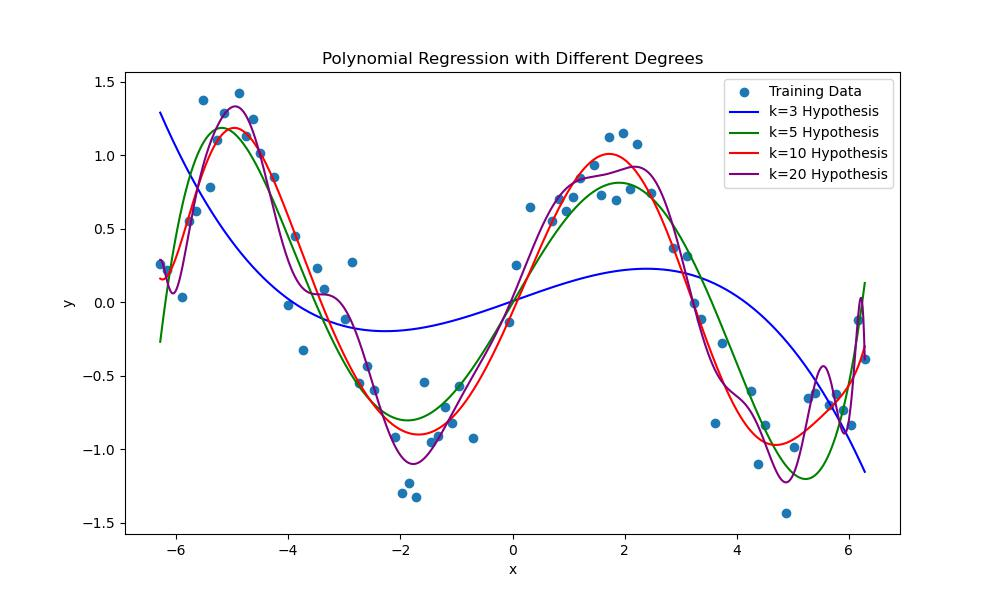
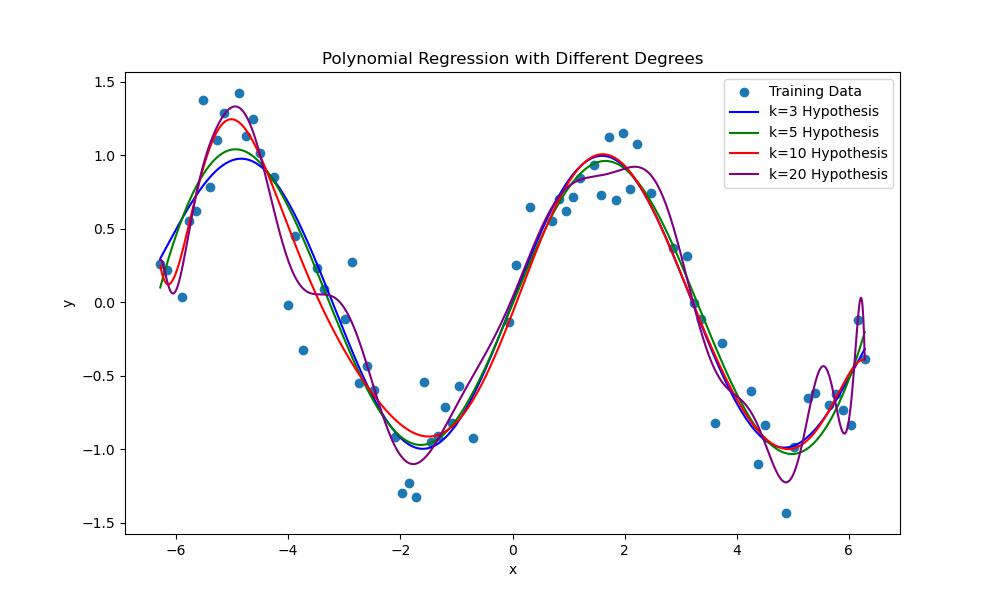
done with the Qn4

diff --git a/ps1/src/featuremaps/featuremap.py b/ps1/src/featuremaps/featuremap.py
@@ -19,6 +19,7 @@ class LinearModel(object):
         self.theta = theta
         self.degree_of_poly = 1
         self.enable_logs = enable_logs
+        self.do_we_need_sin_in_phi = False
 
     def fit(self, X, Y, degree_of_polynomial=5, do_we_need_sin_in_phi:bool = False):
         """Run solver to fit linear model. You have to update the value of
@@ -53,15 +54,17 @@ class LinearModel(object):
         #
         X = self.create_poly_feature_map(degree_of_polynomial, X, do_we_need_sin_in_phi)
         print(F" created poly_feature_map X and it's shape is {X.shape} ")
-        theta = self.calculate_theta_with_normal_eqn(degree_of_polynomial, X, Y)
+        theta = self.calculate_theta_with_normal_eqn(degree_of_polynomial, X, Y, do_we_need_sin_in_phi)
         self.theta = theta
         print(F" the shape of theta after the fitting is {theta.shape} and X's shape is {X.shape} ")
         self.degree_of_poly = degree_of_polynomial
+        self.do_we_need_sin_in_phi = do_we_need_sin_in_phi
         # *** END CODE HERE ***
 
-    def calculate_theta_with_normal_eqn(self, degree_of_polynomial:int, X:np.ndarray, Y:np.ndarray, )->np.ndarray:
-        theta = np.zeros((degree_of_polynomial + 1,1))
-        print(F" the theta vec obtained is {theta}  and it's shape is {theta.shape}")
+    def calculate_theta_with_normal_eqn(self, degree_of_polynomial:int, X:np.ndarray, Y:np.ndarray, do_we_need_sin_in_phi:bool = False)->np.ndarray:
+        rows_in_theta = degree_of_polynomial + 2 if  do_we_need_sin_in_phi else degree_of_polynomial + 1
+        theta = np.zeros((rows_in_theta,1))
+        print(F" the theta vec obtained is {theta}  and it's shape is {theta.shape} and rows in theta is {rows_in_theta} and do_we_need_sin_in_phi:{do_we_need_sin_in_phi} and degree_of_polynomial is {degree_of_polynomial}")
         assert theta.shape[0] == X.shape[1], F" theta's row should be equal to the column of the X matrix, theta:{theta.shape}, X:{X.shape}"
         assert Y.shape[0] == X.shape[0] , F" the number of rows in the y should be same as the number of rows in the x(same as no. of eg.). X:{X.shape}, y:{Y.shape} "
         XT_X = np.dot(np.transpose(X), X)
@@ -90,11 +93,12 @@ class LinearModel(object):
         """
         # *** START CODE HERE ***
         number_0f_eg = input.shape[0]
-        dim_of_features = k+1
+        dim_of_features = k+1 if not do_we_need_sin_in_phi else k + 2
         print(F"the number_0f_eg is {number_0f_eg}, and dim_of_features {dim_of_features}")
         #final X matrix
         X = np.zeros(( number_0f_eg, dim_of_features))
         for i in range(number_0f_eg):
+            # print(F"at {i}: the x[{i}] is {X[i]} and it's shape {X[i].shape}")
             X[i] = self.phi(input[i], k, do_we_need_sin_in_phi)
             # print(F"\n\n"+"-"*40+F"{i}"+"-"*40+"\n\n")
             # print(F"{X[i]}")
@@ -152,7 +156,7 @@ class LinearModel(object):
             raise ValueError("the self.degree_of_poly is not of int type")
  
         print(F"-- in pred -- the shape of theta is {self.theta.shape} (it should be ({self.degree_of_poly+1},1)  )   and shape of X is {X.shape} ")
-        X_poly = self.create_poly_feature_map(self.degree_of_poly, X)
+        X_poly = self.create_poly_feature_map(self.degree_of_poly, X, do_we_need_sin_in_phi=self.do_we_need_sin_in_phi)
         res = np.dot( X_poly, self.theta )
         # res = np.dot( self.theta, X)
         print(F" the output from predict function has a shape {res.shape} \n\n")
@@ -195,7 +199,7 @@ def main(train_path, small_path, eval_path, degree_of_poly = 3):
     print(F" saved the files as:linear_reg_with_feature_map_with_poly_degree_{degree_of_poly}.jpg")
     # *** END CODE HERE ***
 
-def compare_diff_degree_poly( train_path:str, k_value , color, do_we_need_sin_in_phi:bool = False  ):
+def compare_diff_degree_poly( train_path:str, k_value , color, do_we_need_sin_in_phi:bool = False, extra_namePfor_saved_file = None  ):
     if len(k_value) != len(color):
         raise ValueError(F" the len of k value is not same as the no. of color , k_val:{len(k_value)}, color:{len(color)} ")
     
@@ -205,6 +209,7 @@ def compare_diff_degree_poly( train_path:str, k_value , color, do_we_need_sin_in
     plt.scatter(train_x, train_y, label='Training Data', )
 
     x_range = np.linspace(min(train_x), max(train_x), 1000).reshape(-1, 1)
+    saved_img_name = ""
 
     for k, color in zip(k_value, color):
         clf = LinearModel()
@@ -212,17 +217,23 @@ def compare_diff_degree_poly( train_path:str, k_value , color, do_we_need_sin_in
         clf.fit(train_x, train_y, degree_of_polynomial=k, do_we_need_sin_in_phi= do_we_need_sin_in_phi)
         y_pred = clf.predict(x_range)
         plt.plot(x_range, y_pred, color=color, label=f'k={k} Hypothesis')
+        saved_img_name+= "-"+str(k)
+
+    saved_img_name += str(extra_namePfor_saved_file)
 
     plt.xlabel('x')
     plt.ylabel('y')
     plt.title('Polynomial Regression with Different Degrees')
     plt.legend()
-    plt.savefig('comparison-3-5-10-20.jpg')
-    print("\n Saved plot as comparison-3-5-10-20.jpg \n")
+
+    plt.savefig(f'comparison{saved_img_name}.jpg')
+    print(f"\n Saved plot as comparison{saved_img_name}.jpg \n")
 
 
 if __name__ == '__main__':
     # main(train_path='train.csv',
     #     small_path='small.csv',
     #     eval_path='test.csv', degree_of_poly=3)
-    compare_diff_degree_poly(train_path="train.csv", k_value=[0,1,2,3,5,10,20], color=['blue', 'green', 'red', 'purple', 'yellow', 'violet', 'orange'], do_we_need_sin_in_phi=True )
+    # compare_diff_degree_poly(train_path="train.csv", k_value=[0,1,2,3,5,10,20], color=['blue', 'green', 'red', 'purple', 'yellow', 'violet', 'black'], do_we_need_sin_in_phi=True, extra_namePfor_saved_file="_on_test" )
+    compare_diff_degree_poly(train_path="small.csv", k_value=[1,2,5,10,20], color=['blue', 'green', 'red', 'purple', 'yellow'], do_we_need_sin_in_phi=False, extra_namePfor_saved_file="_on_small_dtst" )
+    # compare_diff_degree_poly(train_path="train.csv", k_value=[3,5,10,20], color=['blue', 'green', 'red', 'purple'], do_we_need_sin_in_phi=True )
